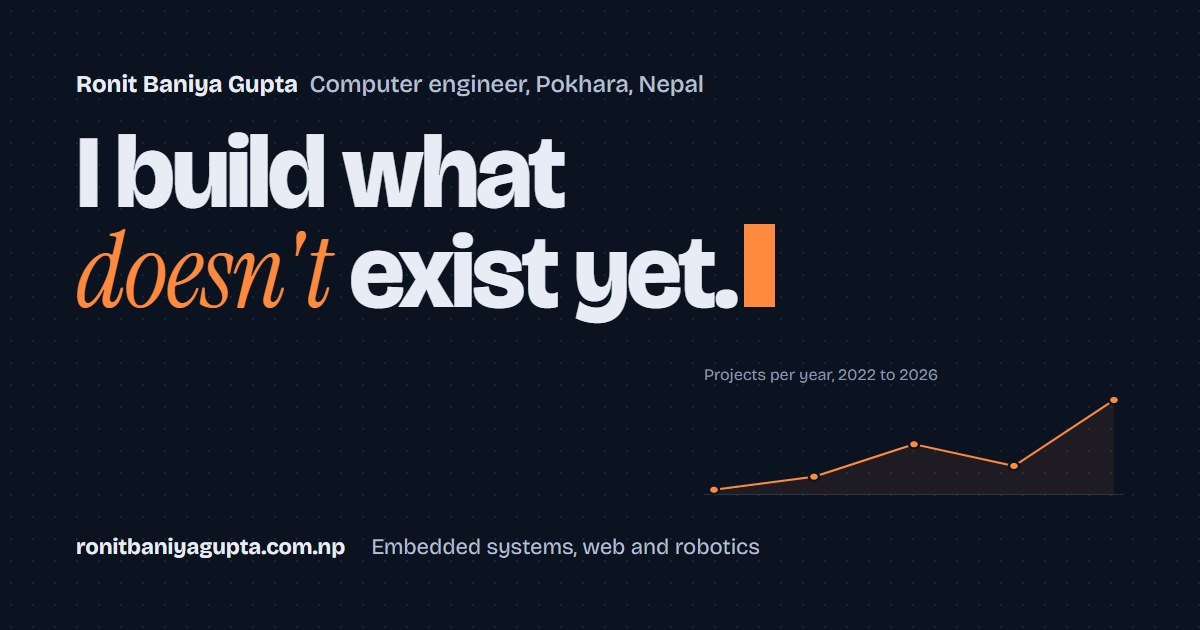
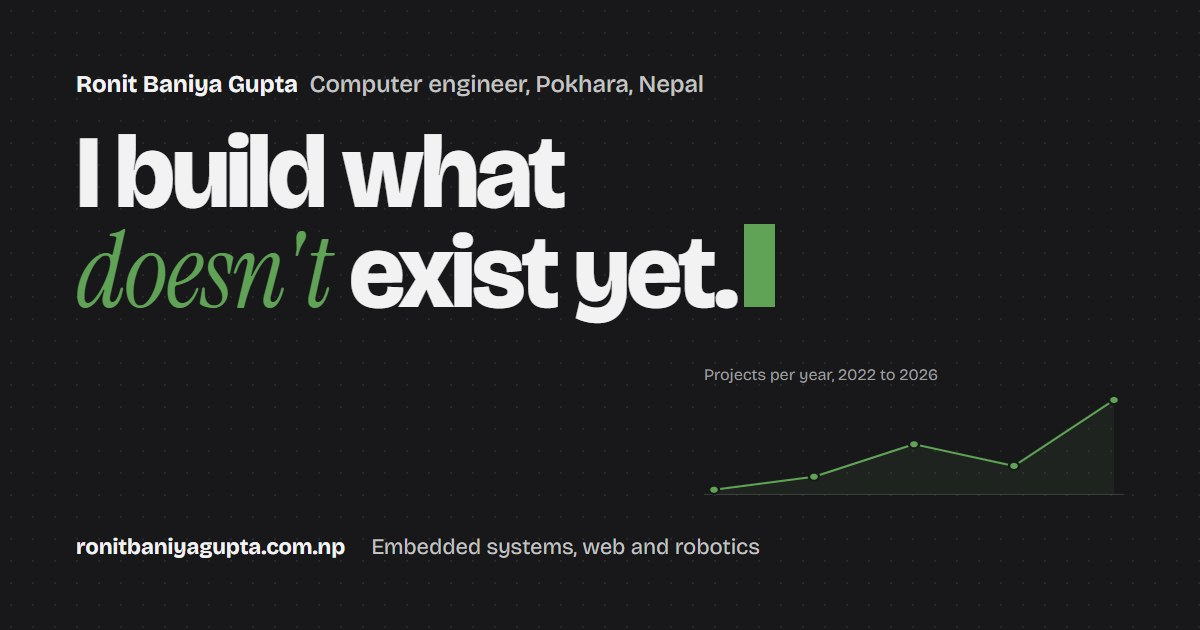
Colours: Ronit's picks - forest green on charcoal and off-white
Accent #27681c, dark background #18181b, light background #fafafa, chosen
in the colour mixer. Text shades derived so every text token stays at
4.5:1 or better in both modes; chart colours lead with the green and are
validated per mode. Share card, fallback logo and resume follow.

diff --git a/src/index.css b/src/index.css
@@ -39,81 +39,81 @@
 }
 
 /* ------------------------------------------------------------------ */
-/*  "Nova" palette - deep navy with one warm orange, the pairing Ronit */
-/*  keeps choosing in his own work (Hackathon Nova, the Cyber-Deck's    */
-/*  amber on navy). The RB monogram stays black and white.              */
-/*  Text tokens >= 4.5:1 on bg, surface and raised in both modes; chart */
-/*  slots checked per mode with the dataviz validator.                  */
-/*  Dark is the default; <html class="light"> swaps the tokens.         */
-/*  accent = text and lines; accent-fill + on-accent = filled buttons.  */
-/*  Red (warn) is for errors only.                                      */
+/*  Ronit's own picks (made in the colour mixer): forest green #27681c */
+/*  on charcoal #18181b at night and off-white #fafafa by day. The RB  */
+/*  monogram stays black and white. Text shades were derived so every  */
+/*  text token is >= 4.5:1 on bg, surface and raised in both modes;    */
+/*  chart slots checked per mode with the dataviz validator.           */
+/*  Dark is the default; <html class="light"> swaps the tokens.        */
+/*  accent = text and lines; accent-fill + on-accent = filled buttons. */
+/*  Red (warn) is for errors only.                                     */
 /* ------------------------------------------------------------------ */
 :root {
   color-scheme: dark;
 
-  --rk-bg: #0b1220;
-  --rk-surface: #111a2b;
-  --rk-raised: #172338;
-  --rk-border: #1f2c42;
-  --rk-border-strong: #2c3b55;
-  --rk-field: #6b7a92; /* 3:1 for input borders */
-  --rk-ink: #e8edf5;
-  --rk-ink-dim: #b4bfcf;
-  --rk-ink-faint: #8a97ab;
+  --rk-bg: #18181b;
+  --rk-surface: #202023;
+  --rk-raised: #29292b;
+  --rk-border: #333335;
+  --rk-border-strong: #454547;
+  --rk-field: #838385; /* 3:1 for input borders */
+  --rk-ink: #f2f2f3;
+  --rk-ink-dim: #c4c4c5;
+  --rk-ink-faint: #9e9e9f;
 
-  --rk-accent: #ff8a3d; /* links, focus, first places */
-  --rk-accent-ink: #ffb27a; /* hover text */
-  --rk-accent-fill: #f97316;
-  --rk-on-accent: #0b1220;
-  --rk-accent-soft: rgba(249, 115, 22, 0.14);
-  --rk-signal: #ff8a3d;
+  --rk-accent: #60a256; /* the green, lifted to read on charcoal */
+  --rk-accent-ink: #84bd7b;
+  --rk-accent-fill: #27681c;
+  --rk-on-accent: #ffffff;
+  --rk-accent-soft: rgba(96, 162, 86, 0.14);
+  --rk-signal: #60a256;
   --rk-warn: #ff6b6b;
   --rk-warn-soft: rgba(255, 107, 107, 0.12);
-  --rk-shadow: rgba(2, 6, 14, 0.55);
-  --rk-dot: rgba(138, 151, 171, 0.14);
+  --rk-shadow: rgba(0, 0, 0, 0.5);
+  --rk-dot: rgba(158, 158, 159, 0.12);
 
-  /* chart series - fixed order, validated (dark, surface #111a2b) */
-  --ch-1: #e06f1f; /* orange */
+  /* chart series - fixed order, validated (dark, surface #202023) */
+  --ch-1: #4a9a3f; /* green */
   --ch-2: #4f86f0; /* blue */
-  --ch-3: #2fa36b; /* green */
+  --ch-3: #e06f1f; /* orange */
   --ch-4: #9a70e7; /* violet */
   --ch-5: #e2559f; /* pink */
-  --ch-other: #56647c;
-  --ch-grid: #1f2c42;
+  --ch-other: #5c5c5f;
+  --ch-grid: #333335;
 }
 
 :root.light {
   color-scheme: light;
 
-  --rk-bg: #f5f7fa;
-  --rk-surface: #ffffff;
-  --rk-raised: #eef1f5;
-  --rk-border: #dde3ea;
-  --rk-border-strong: #c3ccd7;
-  --rk-field: #6b7a8c;
-  --rk-ink: #0f1b2d;
-  --rk-ink-dim: #3a4757;
-  --rk-ink-faint: #566375;
+  --rk-bg: #fafafa;
+  --rk-surface: #fdfdfd;
+  --rk-raised: #f2f2f2;
+  --rk-border: #dcdcdc;
+  --rk-border-strong: #c6c6c6;
+  --rk-field: #707070;
+  --rk-ink: #161616;
+  --rk-ink-dim: #484848;
+  --rk-ink-faint: #696969;
 
-  --rk-accent: #b33a0b;
-  --rk-accent-ink: #8f2f08;
-  --rk-accent-fill: #f97316;
-  --rk-on-accent: #0f1b2d;
-  --rk-accent-soft: rgba(249, 115, 22, 0.12);
-  --rk-signal: #b33a0b;
-  --rk-warn: #b42318;
-  --rk-warn-soft: rgba(180, 35, 24, 0.08);
-  --rk-shadow: rgba(15, 27, 45, 0.12);
-  --rk-dot: rgba(86, 99, 117, 0.14);
+  --rk-accent: #27681c;
+  --rk-accent-ink: #1c4f14;
+  --rk-accent-fill: #27681c;
+  --rk-on-accent: #ffffff;
+  --rk-accent-soft: rgba(39, 104, 28, 0.1);
+  --rk-signal: #27681c;
+  --rk-warn: #c62828;
+  --rk-warn-soft: rgba(198, 40, 40, 0.08);
+  --rk-shadow: rgba(22, 22, 22, 0.1);
+  --rk-dot: rgba(105, 105, 105, 0.14);
 
-  /* validated (light, surface #ffffff) */
-  --ch-1: #d4620f;
+  /* validated (light, surface #fdfdfd) */
+  --ch-1: #2f7a24;
   --ch-2: #2f63d6;
-  --ch-3: #138a58;
+  --ch-3: #d4620f;
   --ch-4: #7c55cc;
   --ch-5: #c63d8c;
-  --ch-other: #a3adba;
-  --ch-grid: #dde3ea;
+  --ch-other: #a3a3a3;
+  --ch-grid: #dcdcdc;
 }
 
 @theme inline {

diff --git a/scripts/og-card.html b/scripts/og-card.html
@@ -10,18 +10,18 @@
   @font-face { font-family: "Instrument Serif"; font-style: italic; src: url("../public/fonts/instrument-serif-italic.woff2") format("woff2"); }
   @font-face { font-family: "JetBrains Mono"; font-weight: 400 700; src: url("../public/fonts/jetbrains-mono.woff2") format("woff2"); }
   * { box-sizing: border-box; margin: 0; }
-  body { width: 1200px; height: 630px; background: #0b1220; color: #e8edf5; font-family: "Bricolage Grotesque", sans-serif; overflow: hidden; }
+  body { width: 1200px; height: 630px; background: #18181b; color: #f2f2f3; font-family: "Bricolage Grotesque", sans-serif; overflow: hidden; }
   .card { position: relative; width: 1200px; height: 630px; padding: 70px 76px; }
-  .grat { position: absolute; inset: 0; background-image: radial-gradient(rgba(138,151,171,.14) 1.2px, transparent 1.4px); background-size: 22px 22px; }
-  .who { position: relative; font-size: 24px; color: #b4bfcf; font-weight: 500; }
-  .who b { color: #e8edf5; font-weight: 700; }
+  .grat { position: absolute; inset: 0; background-image: radial-gradient(rgba(158,158,159,.12) 1.2px, transparent 1.4px); background-size: 22px 22px; }
+  .who { position: relative; font-size: 24px; color: #c4c4c5; font-weight: 500; }
+  .who b { color: #f2f2f3; font-weight: 700; }
   h1 { position: relative; margin-top: 26px; font-weight: 800; font-size: 104px; line-height: .95; letter-spacing: -0.035em; }
-  h1 em { font-family: "Instrument Serif", serif; font-style: italic; font-weight: 400; color: #ff8a3d; letter-spacing: -0.01em; }
-  .cur { display: inline-block; width: .5ch; height: .8em; margin-left: .08em; background: #ff8a3d; vertical-align: baseline; }
+  h1 em { font-family: "Instrument Serif", serif; font-style: italic; font-weight: 400; color: #60a256; letter-spacing: -0.01em; }
+  .cur { display: inline-block; width: .5ch; height: .8em; margin-left: .08em; background: #60a256; vertical-align: baseline; }
   .trace { position: absolute; right: 76px; bottom: 118px; width: 420px; height: 120px; }
-  .meta { position: absolute; left: 76px; bottom: 70px; font-size: 22px; color: #b4bfcf; display: flex; gap: 26px; align-items: center; }
-  .meta b { color: #e8edf5; font-weight: 700; }
-  .lab { position: absolute; right: 76px; bottom: 246px; width: 420px; font-size: 16px; color: #8a97ab; display: flex; justify-content: space-between; }
+  .meta { position: absolute; left: 76px; bottom: 70px; font-size: 22px; color: #c4c4c5; display: flex; gap: 26px; align-items: center; }
+  .meta b { color: #f2f2f3; font-weight: 700; }
+  .lab { position: absolute; right: 76px; bottom: 246px; width: 420px; font-size: 16px; color: #9e9e9f; display: flex; justify-content: space-between; }
 </style>
 </head>
 <body>
@@ -31,10 +31,10 @@
     <h1>I build what<br /><em>doesn't</em> exist yet.<span class="cur"></span></h1>
     <p class="lab"><span>Projects per year, 2022 to 2026</span></p>
     <svg class="trace" viewBox="0 0 420 150" preserveAspectRatio="none">
-      <line x1="0" x2="420" y1="128" y2="128" stroke="#2c3b55" />
-      <path d="M10,122.2L110,105.9L210,65.3L310,92.4L410,10L410,128L10,128Z" fill="#ff8a3d" opacity=".08" />
-      <path d="M10,122.2L110,105.9L210,65.3L310,92.4L410,10" fill="none" stroke="#ff8a3d" stroke-width="2.5" stroke-linejoin="round" />
-      <g fill="#ff8a3d" stroke="#0b1220" stroke-width="2.5">
+      <line x1="0" x2="420" y1="128" y2="128" stroke="#454547" />
+      <path d="M10,122.2L110,105.9L210,65.3L310,92.4L410,10L410,128L10,128Z" fill="#60a256" opacity=".08" />
+      <path d="M10,122.2L110,105.9L210,65.3L310,92.4L410,10" fill="none" stroke="#60a256" stroke-width="2.5" stroke-linejoin="round" />
+      <g fill="#60a256" stroke="#18181b" stroke-width="2.5">
         <circle cx="10" cy="122.2" r="5" /><circle cx="110" cy="105.9" r="5" /><circle cx="210" cy="65.3" r="5" /><circle cx="310" cy="92.4" r="5" /><circle cx="410" cy="10" r="5" />
       </g>
     </svg>

diff --git a/index.html b/index.html
@@ -15,8 +15,8 @@
     <link rel="apple-touch-icon" href="/images/apple-touch-icon.png" />
     <link rel="canonical" href="https://www.ronitbaniyagupta.com.np/" />
 
-    <meta name="theme-color" content="#0b1220" media="(prefers-color-scheme: dark)" />
-    <meta name="theme-color" content="#f5f7fa" media="(prefers-color-scheme: light)" />
+    <meta name="theme-color" content="#18181b" media="(prefers-color-scheme: dark)" />
+    <meta name="theme-color" content="#fafafa" media="(prefers-color-scheme: light)" />
     <script>
       /* Pick the theme before first paint: saved choice, else the device setting. */
       (function () {

diff --git a/server/services/resume.ts b/server/services/resume.ts
@@ -16,10 +16,10 @@ const BOTTOM = 46;
 const MAX_PAGES = 2;
 const SITE = "ronitbaniyagupta.com.np";
 
-// PDF fill colours: navy ink, slate for secondary text, the site's orange (light-mode accent)
-const INK = "0.059 0.106 0.176";
-const DIM = "0.227 0.278 0.341";
-const ACCENT = "0.702 0.227 0.043";
+// PDF fill colours: the site's light-mode ink, secondary text and green accent
+const INK = "0.086 0.086 0.086";
+const DIM = "0.282 0.282 0.282";
+const ACCENT = "0.153 0.408 0.11";
 
 type Font = "F1" | "F2";
 interface Op { x: number; y: number; font: Font; size: number; color: string; text: string }

diff --git a/vite.config.ts b/vite.config.ts
@@ -30,8 +30,8 @@ export default defineConfig({
         scope: "/",
         display: "standalone",
         orientation: "portrait",
-        theme_color: "#0b1220",
-        background_color: "#0b1220",
+        theme_color: "#18181b",
+        background_color: "#18181b",
         categories: ["portfolio", "productivity"],
         icons: [
           { src: "/images/icon-192.png", sizes: "192x192", type: "image/png" },

diff --git a/README.md b/README.md
@@ -23,8 +23,8 @@ cleanup helpers the homepage relies on).
 
 ## design notes
 
-- Palette "Nova" (`src/index.css` tokens): deep navy with one warm orange, taken from the colours Ronit
-  picks in his own projects (Hackathon Nova, the Cyber-Deck). Red is for errors only. Dark by default;
+- Palette (`src/index.css` tokens): Ronit's own picks from the colour mixer, forest green #27681c on
+  charcoal #18181b (dark) and off-white #fafafa (light). Red is for errors only. Dark by default;
   `<html class="light">` swaps the tokens. The first theme is picked before paint in `index.html` (saved
   choice, else the device setting); the header toggle saves the choice. `accent` is for text and lines,
   `accent-fill` + `on-accent` for filled buttons. Text tokens are >= 4.5:1 in both modes; chart series
